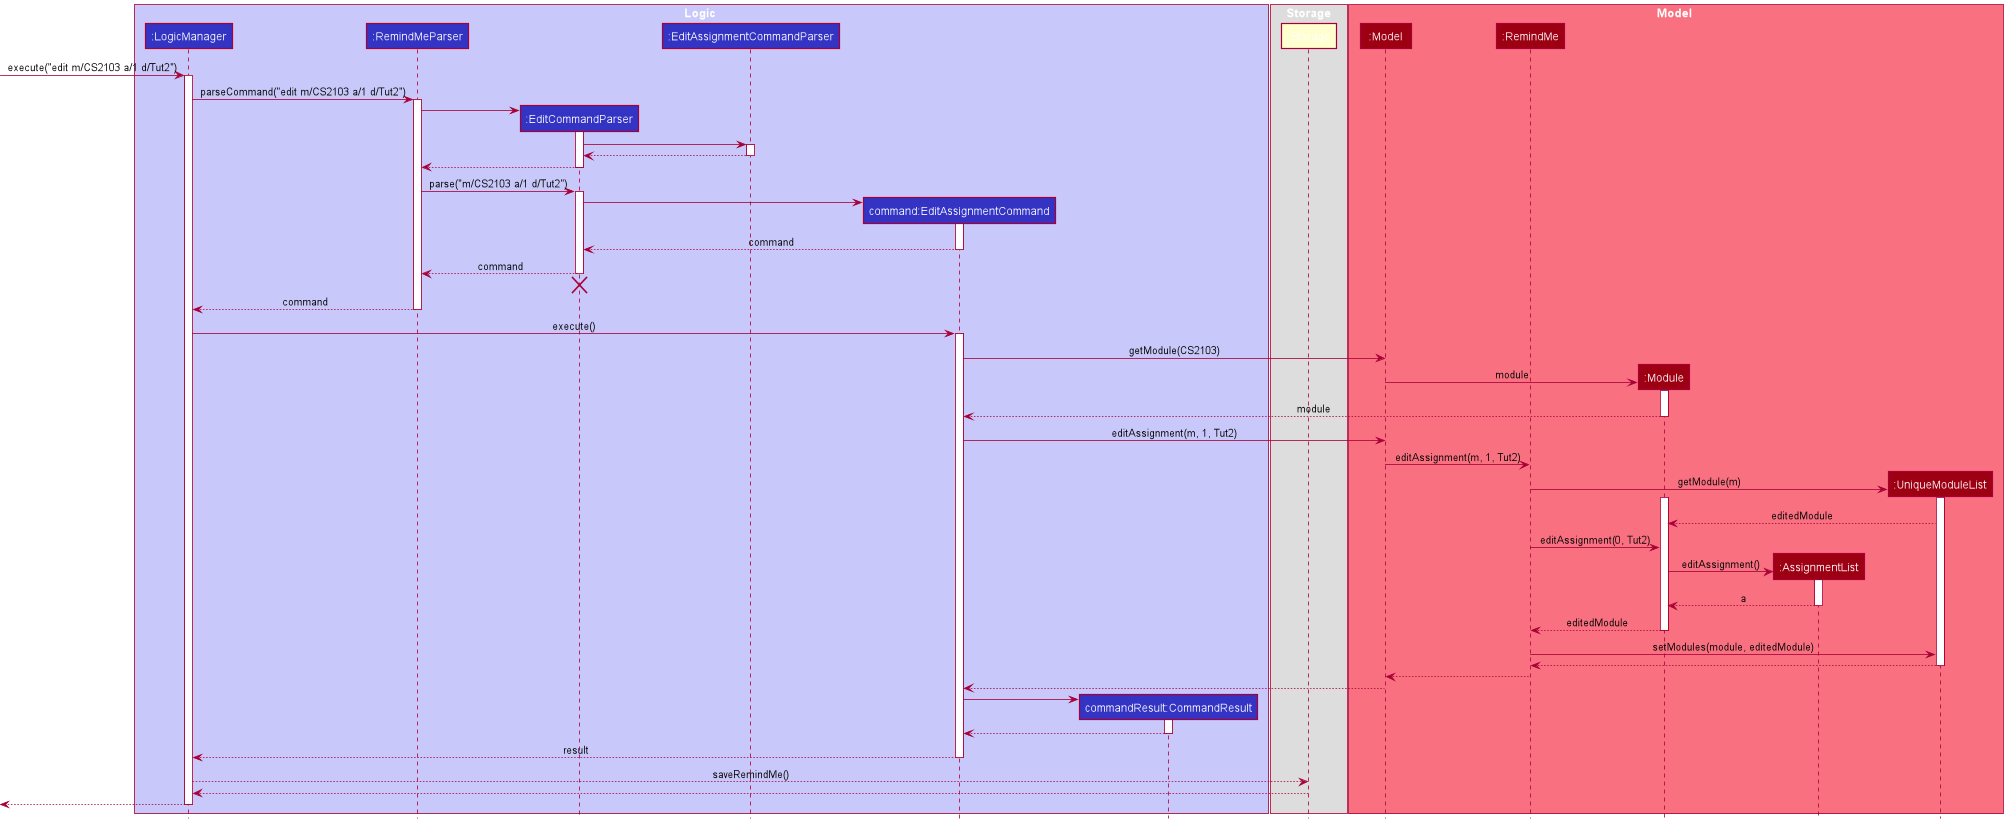
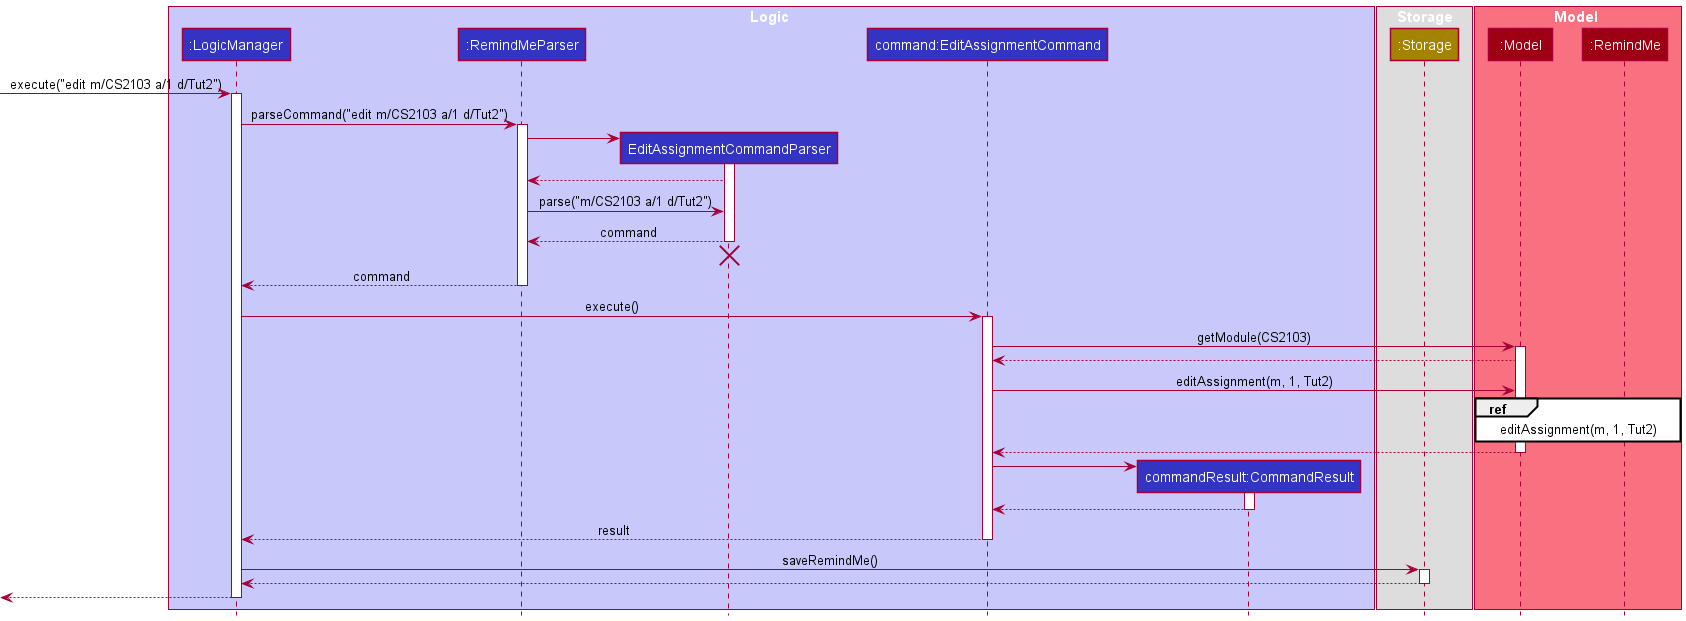
Update EditFeature explanation and diagrams in DG

diff --git a/docs/DeveloperGuide.md b/docs/DeveloperGuide.md
@@ -365,7 +365,7 @@ in the CS2103 module. This invokes the method `LogicManager#execute(String)` whi
 <br>
 <br>
 
-**Step 3:** RemindMeParser will then create `EditCommandParser` 
+**Step 3:** RemindMeParser will then create `EditCommandParser` (omitted in the sequence diagram)
 which detects the edit conditions and calls `EditAssignmentCommandParser` 
 to parse inputs according to the format specified.
 <br>
@@ -385,7 +385,7 @@ which then verifies whether the target module and assignment exists and whether
 
 **step 6:** The `Model` calls `RemindMe#editAssignment(Module, index, Description)` method which retrieves
 the module to edit from the `UniqueModuleList` ,retrieves and update the assignment and place the
-module back to the list.
+module back to the list. 
 <br>
 <br>
 
@@ -398,10 +398,19 @@ and returned to `LogicManager`.
 
     Note: An EditAssignmentCommand can either change the description or date of an assignment, not both.
     
+<br>
 
 The above process is shown in the following sequence diagram:
 
 ![EditFeatureSequenceDiagram](images/EditFeatureSequenceDiagram.png)
+
+<br>
+
+Below is the separate sequence diagram for editAssignment(m, 1 , Tut2):
+
+![EditFeatureSequenceDiagram1](images/EditFeatureSequenceDiagram1.png)
+
+<br>
 
 The following activity diagram summarises the general workflow for the Edit Command:
 
